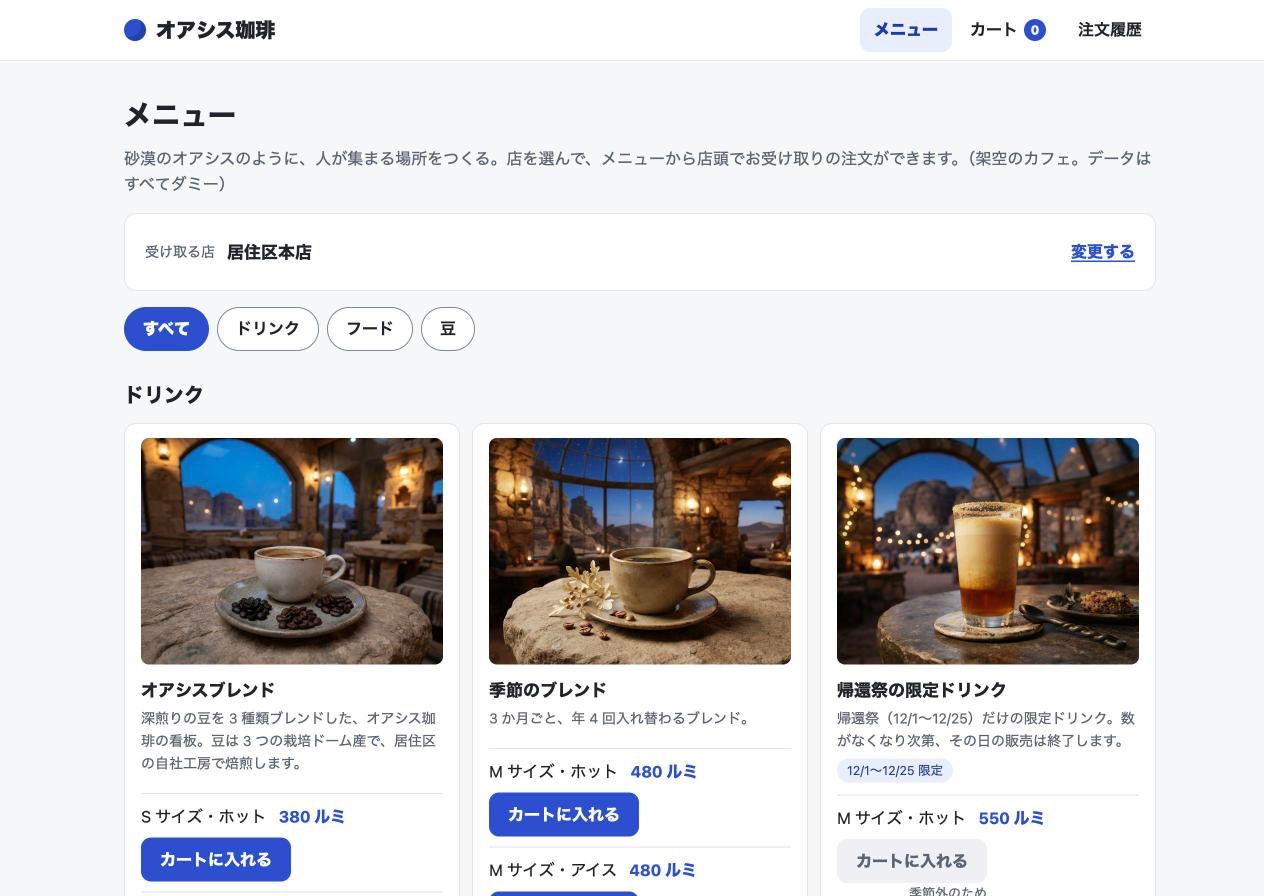
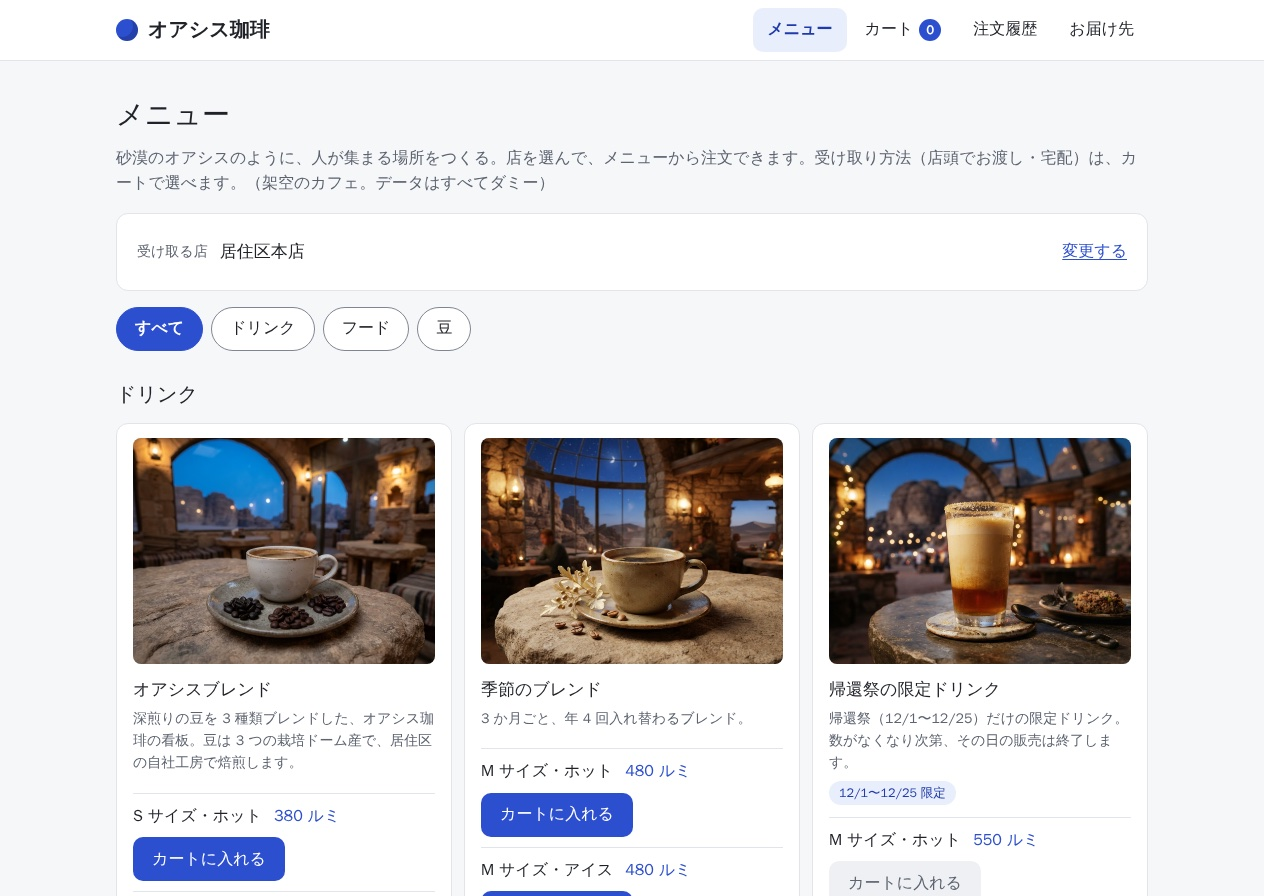
feat(site): switch ShopOrder screenshots with the colour scheme
Wrap the two ShopOrder screenshots in <picture> with a
prefers-color-scheme: dark source, so they follow the page theme
instead of staying light on the dark page. Retake the light versions
from the current app (the old menu shot predates delivery) and add
dark versions at the same size (1264x896, 1264x928); width and height
attributes avoid layout shift.

Checked in Chromium with the light and dark colour schemes: the
dark sources load only in dark. DocuNavi and JobNavi screenshots are
still light only.

diff --git a/ja.html b/ja.html
@@ -23,8 +23,14 @@
     <p class="tags">FastAPI · Next.js · TypeScript · Postgres · Docker Compose</p>
     <p>架空のカフェチェーンの注文アプリです。お客様は店頭受け取りと宅配を注文し、店のスタッフは調理ボードと在庫を使い、店長は分析を見ます。在庫は追記だけの台帳で、同じ在庫を二重に売りません。</p>
     <div class="shots">
-      <img src="img/shoporder-menu.jpg" alt="ShopOrder のメニュー画面" loading="lazy">
-      <img src="img/shoporder-overview.jpg" alt="ShopOrder の店長の概況。売上の折れ線" loading="lazy">
+      <picture>
+        <source media="(prefers-color-scheme: dark)" srcset="img/shoporder-menu-dark.jpg">
+        <img src="img/shoporder-menu.jpg" alt="ShopOrder のメニュー画面" width="1264" height="896" loading="lazy">
+      </picture>
+      <picture>
+        <source media="(prefers-color-scheme: dark)" srcset="img/shoporder-overview-dark.jpg">
+        <img src="img/shoporder-overview.jpg" alt="ShopOrder の店長の概況。売上の折れ線" width="1264" height="928" loading="lazy">
+      </picture>
     </div>
   </section>
 

diff --git a/index.html b/index.html
@@ -23,8 +23,14 @@
     <p class="tags">FastAPI · Next.js · TypeScript · Postgres · Docker Compose</p>
     <p>An ordering app for a fictional café chain: pickup and delivery for customers, a prep board and stock for staff, analytics for managers. Stock is an append-only ledger, so the same item is never sold twice.</p>
     <div class="shots">
-      <img src="img/shoporder-menu.jpg" alt="ShopOrder menu screen" loading="lazy">
-      <img src="img/shoporder-overview.jpg" alt="ShopOrder manager overview with sales line chart" loading="lazy">
+      <picture>
+        <source media="(prefers-color-scheme: dark)" srcset="img/shoporder-menu-dark.jpg">
+        <img src="img/shoporder-menu.jpg" alt="ShopOrder menu screen" width="1264" height="896" loading="lazy">
+      </picture>
+      <picture>
+        <source media="(prefers-color-scheme: dark)" srcset="img/shoporder-overview-dark.jpg">
+        <img src="img/shoporder-overview.jpg" alt="ShopOrder manager overview with sales line chart" width="1264" height="928" loading="lazy">
+      </picture>
     </div>
   </section>
 
